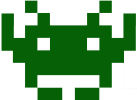
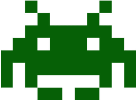
added stuff

Changed region(s): [[0.0, 0.12, 0.1168, 0.9], [0.8759, 0.12, 0.9927, 0.9]]

diff --git a/assets/script.js b/assets/script.js
@@ -1,0 +1,16 @@
+function animateInvader() {
+  const spaceInvader = document.getElementById("spaceinvader");
+  const imageOne = "./assets/img/spaceinvader1.png";
+  const imageTwo = "./assets/img/spaceinvader2.png";
+
+  if (spaceInvader.getAttribute("src") == imageTwo) {
+    spaceInvader.src = imageOne;
+  }
+  else {
+    spaceInvader.src = imageTwo;
+  }
+};
+
+function animateMushroom() {
+
+};

diff --git a/javascript.html b/javascript.html
@@ -120,5 +120,6 @@
       This is a footer
     </footer>
 
+    <script src="./assets/script.js"></script>
 </body>
 </html>
